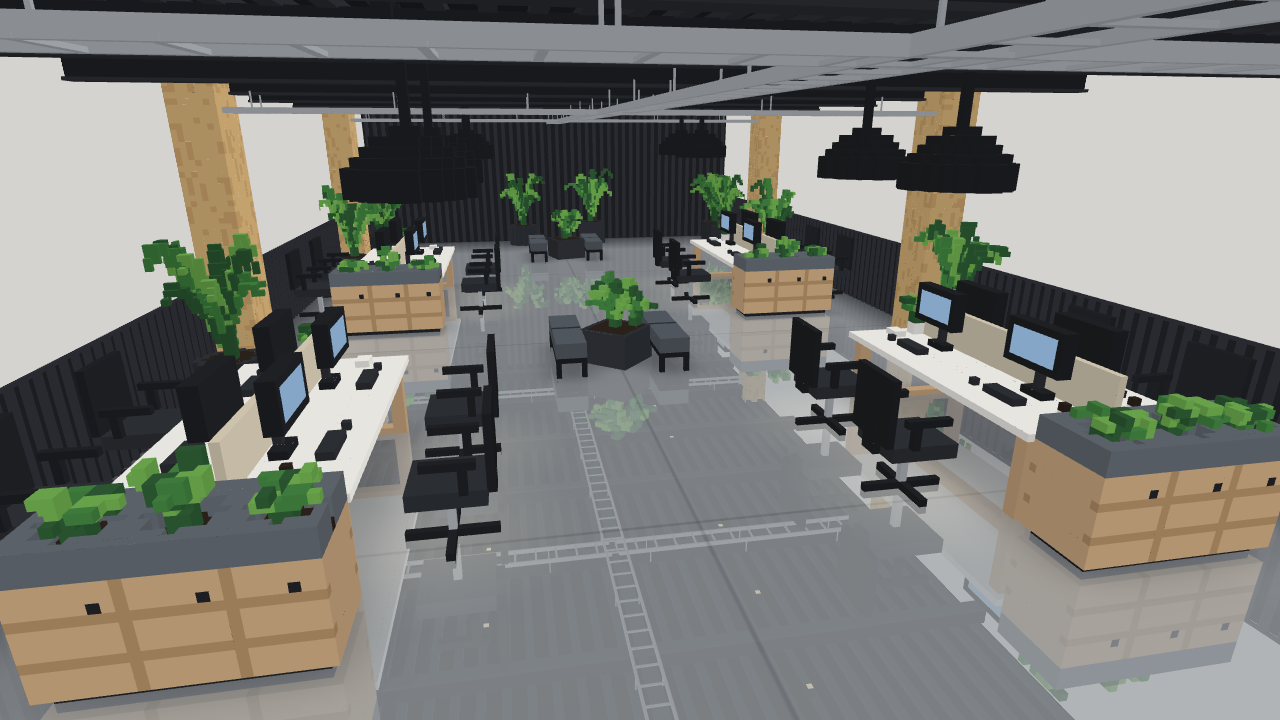
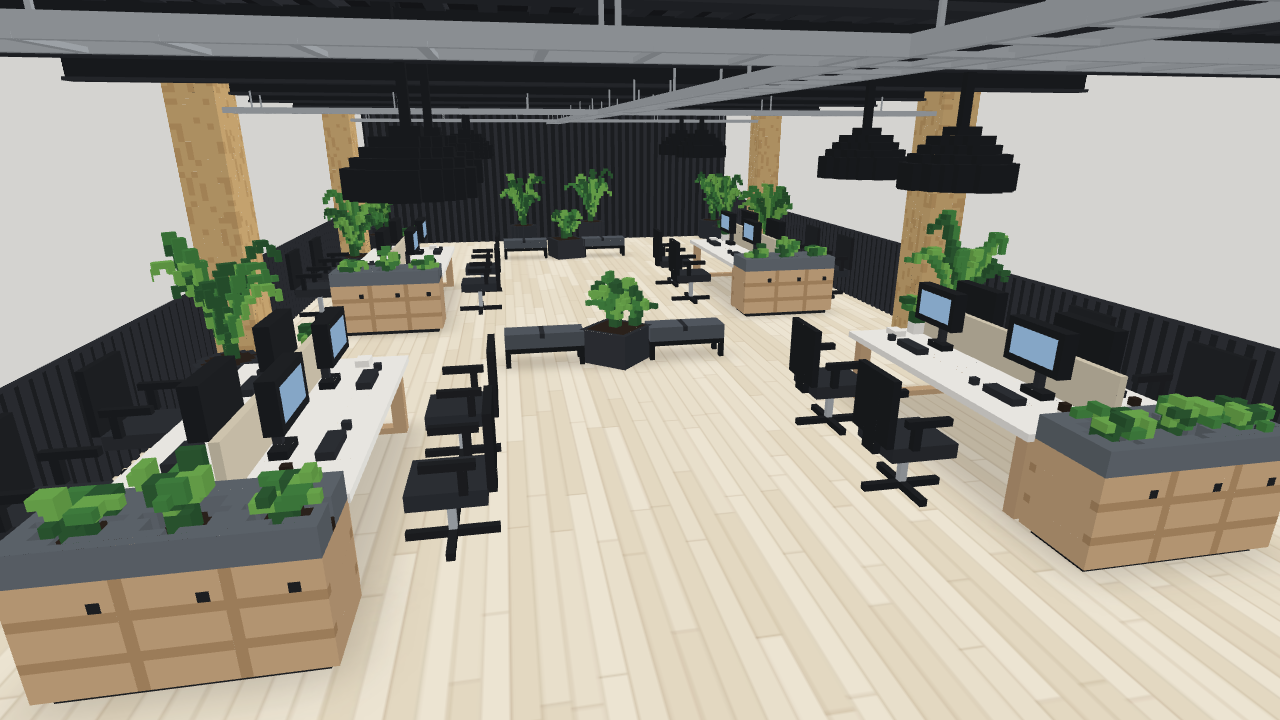
feat(office): bancos de 1 m a lo ancho del pasillo, plantas en las 4 esquinas y piso de madera clara mate
- Un banco sin respaldo por lado de la planta central, de 1 m y con el eje largo de lado a
  lado del salón (2 lugares extra por banco, mirando a la entrada); test actualizado.
- Plantas medianas pegadas a las 4 esquinas (test nuevo).
- Pedido del usuario: el piso gris pulido de las fotos pasa a madera clara casi blanca,
  mate, con tablones sutiles; se saca el reflejo espejado (2 draw calls en total).

diff --git a/office/src/room.ts b/office/src/room.ts
@@ -1,9 +1,10 @@
 // El salón: cáscara (paredes, techo, fondo acanalado), techo técnico (vigas, bandeja de cables, spots), lámparas y muebles,
 // todo fundido en UNA malla con color por vértice (MeshBasicMaterial: el sombreado ya viene horneado por cara, cero luces en
-// tiempo real) + su reflejo espejado bajo el piso + el piso pulido semitransparente encima. Total: 3 draw calls para todo el salón.
+// tiempo real) + el piso de madera clara mate aparte (textura con tablones). Total: 2 draw calls para todo el salón.
 import * as THREE from 'three';
 import { mergeGeometries } from 'three/examples/jsm/utils/BufferGeometryUtils.js';
 import { officeLayout, ROOM, type OfficeLayout, type Seat } from './layout';
+import { hash3 } from '../vendor/kit3d';
 import {
   PAL, benchGeometry, cabinetGeometry, chairGeometry, columnGeometry, deskGeometry, lampGeometry, planterGeometry,
   plantGeometry,
@@ -107,7 +108,7 @@ function shellParts(L: OfficeLayout): THREE.BufferGeometry[] {
   return out;
 }
 
-/** Lámparas colgantes (aparte: el reflejo espejado no las lleva, su boca encendida reflejada se leía como mancha en el piso). */
+/** Lámparas colgantes. */
 function lampParts(L: OfficeLayout): THREE.BufferGeometry[] {
   return L.lamps.map(l => place(lampGeometry(ROOM.height - l.y - 7 / 16), l.x, l.y, l.z));
 }
@@ -133,7 +134,12 @@ function furnitureParts(L: OfficeLayout): THREE.BufferGeometry[] {
   return out;
 }
 
-/** Piso gris pulido: los reflejos (lámparas, paredes, sombra de los muebles) van pintados en la textura. */
+/**
+ * Piso de madera clara (roble/pino muy claro, más blanco que amarillo), casi mate: tablones a lo largo del salón con juntas
+ * finas y 3 tonos muy cercanos (se lee madera sin hacer ruido) + sombra de contacto suave bajo los muebles. Pedido del usuario:
+ * reemplaza al piso gris pulido de las fotos. Tiene que quedar más claro que la madera de los muebles para que se despeguen.
+ */
+export const FLOOR_TONES = ['#e8dfcb', '#e3d8c1', '#ece4d2'] as const;
 function floorTexture(L: OfficeLayout): THREE.Texture | null {
   if (typeof document === 'undefined') return null;
   const PX = 64, X = ROOM.length, W = ROOM.width;
@@ -142,48 +148,39 @@ function floorTexture(L: OfficeLayout): THREE.Texture | null {
   const ctx = cv.getContext('2d');
   if (!ctx) return null;
   const toPx = (x: number, z: number): [number, number] => [x * PX, (z + W / 2) * PX];
-  ctx.fillStyle = '#a3a8ac';
-  ctx.fillRect(0, 0, cv.width, cv.height);
-  // juntas de dilatación
-  ctx.strokeStyle = 'rgba(40,44,48,0.18)'; ctx.lineWidth = 2;
-  for (let x = 5; x < X; x += 5) { ctx.beginPath(); ctx.moveTo(x * PX, 0); ctx.lineTo(x * PX, cv.height); ctx.stroke(); }
-  ctx.beginPath(); ctx.moveTo(0, cv.height / 2); ctx.lineTo(cv.width, cv.height / 2); ctx.stroke();
-  // reflejo del zócalo negro junto a las paredes y de la pared blanca un poco más adentro
-  for (const s of [0, 1]) {
-    const y0 = s ? cv.height : 0, dir = s ? -1 : 1;
-    const g = ctx.createLinearGradient(0, y0, 0, y0 + dir * 1.6 * PX);
-    g.addColorStop(0, 'rgba(25,27,30,0.55)'); g.addColorStop(0.35, 'rgba(25,27,30,0.12)'); g.addColorStop(0.6, 'rgba(255,255,255,0.10)'); g.addColorStop(1, 'rgba(255,255,255,0)');
-    ctx.fillStyle = g; ctx.fillRect(0, s ? cv.height - 1.6 * PX : 0, cv.width, 1.6 * PX);
+  const PLANK = 0.16 * PX;                       // ancho del tablón
+  const rnd = (i: number, j: number) => hash3(i, j, 7);
+  for (let row = 0; row * PLANK < cv.height; row++) {
+    let x = -rnd(row, 0) * 2 * PX;               // juntas de punta corridas entre filas
+    for (let k = 0; x < cv.width; k++) {
+      const len = (1.4 + rnd(row, k + 1) * 1.2) * PX;
+      ctx.fillStyle = FLOOR_TONES[Math.floor(rnd(row, k + 50) * FLOOR_TONES.length)]!;
+      ctx.fillRect(x, row * PLANK, len, PLANK);
+      ctx.fillStyle = 'rgba(150,125,90,0.22)';
+      ctx.fillRect(x, row * PLANK, 1, PLANK);    // junta de punta
+      x += len;
+    }
+    ctx.fillStyle = 'rgba(150,125,90,0.2)';
+    ctx.fillRect(0, row * PLANK, cv.width, 1);   // junta entre tablones
   }
-  { const g = ctx.createLinearGradient(cv.width, 0, cv.width - 2 * PX, 0); g.addColorStop(0, 'rgba(25,27,30,0.6)'); g.addColorStop(1, 'rgba(25,27,30,0)'); ctx.fillStyle = g; ctx.fillRect(cv.width - 2 * PX, 0, 2 * PX, cv.height); }
-  // sombra de contacto bajo islas, muebles y sillones
+  // sombra de contacto suave bajo islas, muebles y bancos
   ctx.filter = 'blur(10px)';
-  ctx.fillStyle = 'rgba(30,32,36,0.32)';
+  ctx.fillStyle = 'rgba(60,50,40,0.22)';
   for (const p of L.props) {
     if (p.kind === 'chair' || p.kind === 'column') continue;
     const [px, pz] = toPx(p.x, p.z);
     ctx.fillRect(px - (p.w / 2 + 0.06) * PX, pz - (p.d / 2 + 0.06) * PX, (p.w + 0.12) * PX, (p.d + 0.12) * PX);
   }
   ctx.filter = 'none';
-  // brillo suave de las lámparas en el piso pulido
-  for (const l of L.lamps) {
-    const [px, pz] = toPx(l.x, l.z);
-    const g = ctx.createRadialGradient(px, pz, 0, px, pz, 1.1 * PX);
-    g.addColorStop(0, 'rgba(255,246,226,0.30)'); g.addColorStop(1, 'rgba(255,246,226,0)');
-    ctx.fillStyle = g; ctx.fillRect(px - 1.1 * PX, pz - 1.1 * PX, 2.2 * PX, 2.2 * PX);
-  }
   const tex = new THREE.CanvasTexture(cv);
   tex.colorSpace = THREE.SRGBColorSpace;
   tex.anisotropy = 4;
   return tex;
 }
 
-/** Cuánto tapa el piso al reflejo (1 = piso mate, sin reflejo). */
-const FLOOR_OPACITY = 0.72;
-
 export interface Office { group: THREE.Group; seats: Seat[]; extraSeats: Seat[] }
 
-/** Arma la oficina estática: 3 mallas (todo lo voxel fundido, su reflejo y el piso). Liberar con `disposeObject(group)` del kit. */
+/** Arma la oficina estática: 2 mallas (todo lo voxel fundido y el piso de madera). Liberar con `disposeObject(group)` del kit. */
 export function buildOffice(): Office {
   const L = officeLayout();
   const group = new THREE.Group();
@@ -191,29 +188,18 @@ export function buildOffice(): Office {
   const parts = [...shellParts(L), ...furnitureParts(L)];
   const lamps = lampParts(L);
   const merged = mergeGeometries([...parts, ...lamps], false);
-  const reflected = mergeGeometries(parts, false);
   for (const p of [...parts, ...lamps]) p.dispose();
-  if (!merged || !reflected) throw new Error('buildOffice: no se pudieron fundir las geometrías');
-  reflected.computeBoundingSphere();
+  if (!merged) throw new Error('buildOffice: no se pudieron fundir las geometrías');
   merged.computeBoundingSphere();
   const solid = new THREE.Mesh(merged, new THREE.MeshBasicMaterial({ vertexColors: true }));
   solid.name = 'oficina-voxel';
   solid.matrixAutoUpdate = false;
   group.add(solid);
 
-  // Piso pulido: el salón espejado debajo del piso (la misma geometría sin las lámparas, 1 draw call más) y el piso semitransparente encima.
-  // Es el reflejo de verdad según desde dónde mires, sin render extra de la escena (un Reflector la dibujaría dos veces).
-  const mirror = new THREE.Mesh(reflected, new THREE.MeshBasicMaterial({ vertexColors: true }));
-  mirror.name = 'oficina-reflejo';
-  mirror.scale.y = -1;
-  mirror.updateMatrix();
-  mirror.matrixAutoUpdate = false;
-  group.add(mirror);
-
   const tex = floorTexture(L);
   const floor = new THREE.Mesh(
     new THREE.PlaneGeometry(ROOM.length, ROOM.width).rotateX(-Math.PI / 2).translate(ROOM.length / 2, 0, 0),
-    new THREE.MeshBasicMaterial({ ...(tex ? { map: tex } : { color: 0xa3a8ac }), transparent: true, opacity: FLOOR_OPACITY, depthWrite: true }),
+    new THREE.MeshBasicMaterial(tex ? { map: tex } : { color: FLOOR_TONES[0] }),
   );
   floor.name = 'oficina-piso';
   floor.matrixAutoUpdate = false;

diff --git a/office/src/layout.ts b/office/src/layout.ts
@@ -86,23 +86,29 @@ export function officeLayout(): OfficeLayout {
     props.push({ kind: 'column', x, z: wall * (ROOM.width / 2 - 0.25), w: 0.6, d: 0.5, rot: 0 });
   }
 
-  // Centro del pasillo: maceta con una planta mediana y un banco SIN respaldo a cada lado (izquierda y derecha, a lo ancho del
-  // pasillo). Cada banco tiene 2 lugares extra (sesiones de más), sentados mirando hacia afuera. Entre el banco y el borde del
-  // pasillo quedan ≥ 0,5 m para pasar, y estas islas de descanso caen entre las islas de escritorios (no hay sillas al lado).
-  const PLANTER = 0.7, BENCH_W = 1.4, BENCH_D = 0.42, GAP = 0.08;
+  // Centro del pasillo: maceta con una planta mediana y UN banco sin respaldo a cada lado (izquierda y derecha), de 1 m, con el eje
+  // largo de lado a lado del salón: una punta hacia la planta y la otra hacia su pared. Cada banco tiene 2 lugares extra (sesiones de
+  // más), sentados mirando a lo largo del pasillo, hacia la entrada (-x: de frente a la cámara habitual). Estos descansos caen entre
+  // islas (no hay sillas al lado) y dejan ≥ 0,8 m libres más allá de la punta de cada banco para pasar.
+  const PLANTER = 0.7, BENCH_LEN = 1.0, BENCH_D = 0.42, GAP = 0.08;
   for (const xc of LOUNGE_X) {
     props.push({ kind: 'planter', x: xc, z: 0, w: PLANTER, d: PLANTER, rot: 0 });
     for (const side of [-1, 1]) {
-      const bz = side * (PLANTER / 2 + GAP + BENCH_D / 2);
-      props.push({ kind: 'bench', x: xc, z: bz, w: BENCH_W, d: BENCH_D, rot: 0, seats: 2 });
-      for (const dx of [-0.42, 0.42]) {
-        extraSeats.push({ id: 16 + extraSeats.length, position: { x: xc + dx, y: 0, z: bz }, facing: side > 0 ? 0 : Math.PI, island: -1 });
+      const bz = side * (PLANTER / 2 + GAP + BENCH_LEN / 2);
+      props.push({ kind: 'bench', x: xc, z: bz, w: BENCH_D, d: BENCH_LEN, rot: Math.PI / 2, seats: 2 });
+      for (const dz of [-0.4, 0.4]) {
+        extraSeats.push({ id: 16 + extraSeats.length, position: { x: xc, y: 0, z: bz + dz }, facing: -Math.PI / 2, island: -1 });
       }
     }
   }
 
-  // Muchas plantas: grandes en los rincones y entre columnas, contra las paredes (fuera del pasillo).
-  const wallPlants: Array<[number, number]> = [[0.6, 0.75], [8.4, 0.75], [15.1, 0.8], [19.3, 0.8], [18.2, 0.8]];
+  // Plantas medianas en las 4 esquinas, pegadas al rincón (no tapan columnas ni el fondo acanalado).
+  for (const x of [0.4, ROOM.length - 0.4]) for (const wall of [-1, 1]) {
+    props.push({ kind: 'plant', x, z: wall * (ROOM.width / 2 - 0.4), w: 0.6, d: 0.6, rot: 0, size: 0.8 });
+  }
+
+  // Muchas plantas: entre columnas, contra las paredes (fuera del pasillo).
+  const wallPlants: Array<[number, number]> = [[8.4, 0.75], [15.1, 0.8], [18.2, 0.8]];
   for (const [x, size] of wallPlants) for (const wall of [-1, 1]) {
     props.push({ kind: 'plant', x, z: wall * (ROOM.width / 2 - 0.45), w: 0.6, d: 0.6, rot: 0, size });
   }

diff --git a/office/src/layout.test.ts b/office/src/layout.test.ts
@@ -69,15 +69,34 @@ describe('layout de la oficina', () => {
     const planters = L.props.filter(p => p.kind === 'planter');
     expect(planters.length).toBeGreaterThan(0);
     for (const pl of planters) {
-      // un banco sin respaldo a cada lado de la planta, a lo ancho del pasillo (misma x, z a izquierda y derecha)
+      // UN banco sin respaldo a cada lado de la planta, de ~1 m, con el eje largo de lado a lado del salón (a lo largo de z)
       const benches = L.props.filter(p => p.kind === 'bench' && Math.abs(p.x - pl.x) < 0.01);
       expect(benches).toHaveLength(2);
       expect(benches.some(b => b.z < pl.z - pl.d / 2) && benches.some(b => b.z > pl.z + pl.d / 2)).toBe(true);
-      // queda al menos 0,5 m libre entre el banco y el borde del pasillo para pasar
-      for (const b of benches) expect(ROOM.aisleHalf - (Math.abs(b.z) + b.d / 2)).toBeGreaterThanOrEqual(0.5);
+      for (const b of benches) {
+        expect(b.d).toBeGreaterThan(b.w);                       // eje largo a lo ancho del salón
+        expect(b.d).toBeGreaterThanOrEqual(0.9);
+        expect(b.d).toBeLessThanOrEqual(1.1);
+        // 2 lugares por banco, sobre el banco
+        const on = L.extraSeats.filter(s => Math.abs(s.position.x - b.x) < b.w / 2 && Math.abs(s.position.z - b.z) < b.d / 2);
+        expect(on).toHaveLength(2);
+        // para pasar: ≥ 0,8 m libres entre la punta del banco y cualquier otro mueble en esa franja de x
+        const end = Math.abs(b.z) + b.d / 2;
+        const blockers = L.props.filter(p => p !== b && Math.abs(p.x - b.x) < (p.w + b.w) / 2 && Math.sign(p.z) === Math.sign(b.z)
+          && Math.abs(p.z) - p.d / 2 < end + 0.8 && Math.abs(p.z) + p.d / 2 > end);
+        expect(blockers).toEqual([]);
+      }
     }
     // nada de sillones con respaldo en el pasillo
     expect(L.props.some(p => (p.kind as string) === 'sofa' || (p.kind as string) === 'armchair')).toBe(false);
+  });
+
+  it('plants_in_the_4_corners', () => {
+    const corners = [[0, -1], [0, 1], [ROOM.length, -1], [ROOM.length, 1]] as const;
+    for (const [cx, sz] of corners) {
+      const near = L.props.filter(p => p.kind === 'plant' && Math.abs(p.x - cx) < 0.6 && Math.abs(p.z - sz * ROOM.width / 2) < 0.6);
+      expect(near, `esquina ${cx},${sz}`).toHaveLength(1);
+    }
   });
 
   it('seats_face_their_desk', () => {

diff --git a/office/src/furniture.ts b/office/src/furniture.ts
@@ -177,12 +177,12 @@ export function planterGeometry(seed: number): THREE.BufferGeometry {
   });
 }
 
-/** Banco tapizado SIN respaldo (largo a lo largo de x): 1,4 × 0,42 m, asiento a 0,45 m, patas negras. */
+/** Banco tapizado SIN respaldo (largo a lo largo de x del modelo): 1 × 0,42 m, asiento a 0,45 m, patas negras. */
 export function benchGeometry(): THREE.BufferGeometry {
   return bake(g => {
-    for (const x of [-11, 10]) for (const z of [-3, 2]) g.box(x, 0, z, x + 1, 3, z + 1, PAL.black);
-    g.box(-11, 3, -3, 11, 4, 3, PAL.black);                 // bastidor
-    g.box(-11, 4, -3, 11, 7, 3, PAL.sofa);                  // almohadón
+    for (const x of [-8, 7]) for (const z of [-3, 2]) g.box(x, 0, z, x + 1, 3, z + 1, PAL.black);
+    g.box(-8, 3, -3, 8, 4, 3, PAL.black);                   // bastidor
+    g.box(-8, 4, -3, 8, 7, 3, PAL.sofa);                    // almohadón
     g.box(0, 6, -3, 1, 7, 3, PAL.black2);                   // costura al medio (2 lugares)
   });
 }
